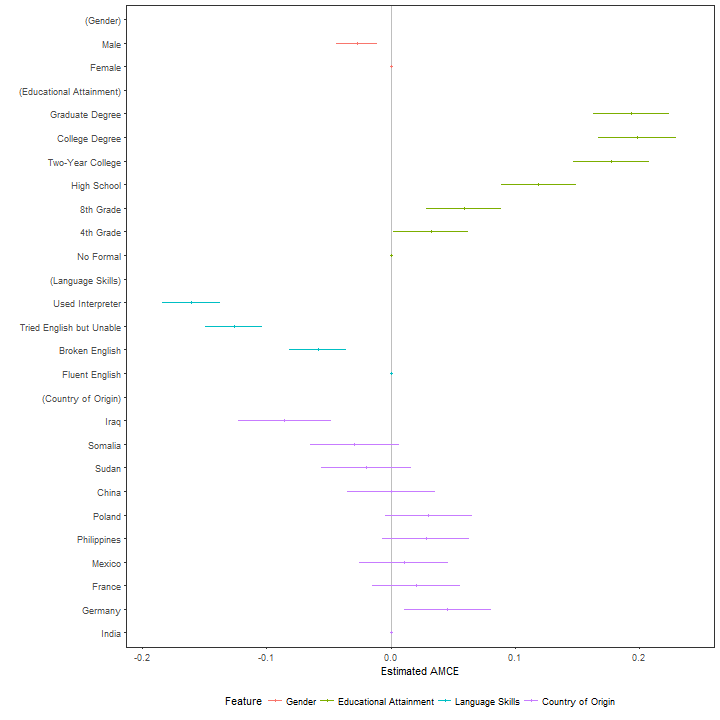
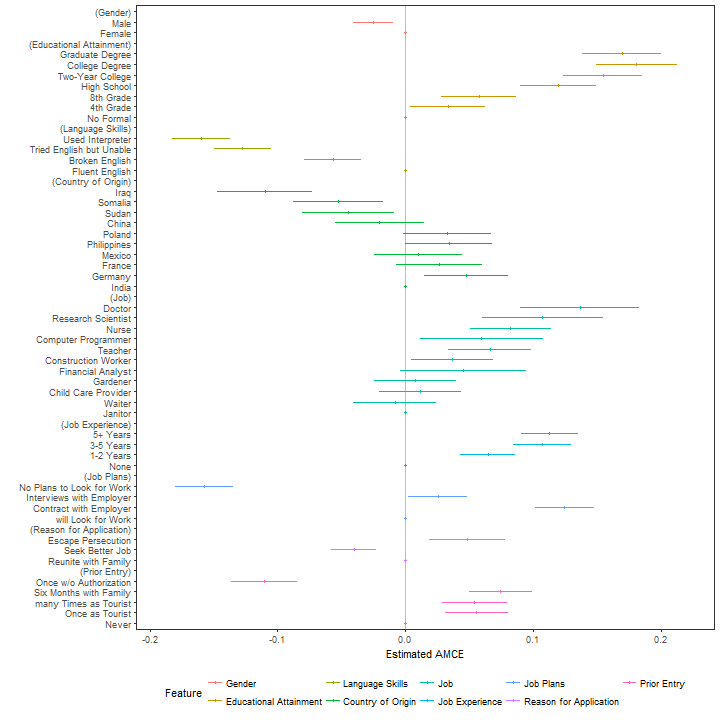
add level_order arg (closes #1)

diff --git a/README.html b/README.html
@@ -30,20 +30,19 @@ f1 &lt;-<span class="st"> </span>ChosenImmigrant <span class="op">~</span><span 
 <p>cregg functions uses <code>attributes(feature)$label</code> to provide pretty printing of feature labels, so that varible names can be arbitrary. These can be overwritten using the <code>feature_labels</code> argument to override these settings. Feature levels are always deduced from the <code>levels()</code> of righthand-side variables in the model specification. All variables should be factors with levels in desired display order. Similarly, the plotted order of features is given by the order of terms in the RHS formula unless overridden by the order of variable names given in <code>feature_order</code>.</p>
 <p>A more common analytic approach for conjoints is to estimate average marginal component effects (AMCEs) using some form of regression analysis. cregg uses <code>glm()</code> and <code>svyglm()</code> to perform estimation and <a href="https://cran.r-project.org/package=margins">margins</a> to generate average marginal effect estimates. Designs can be specified with any interactions between conjoint features but only AMCEs are returned. (No functionality is provided at the moment for explict estimation of feature interaction effects.) Just like for <code>amm()</code>, the output of <code>cj()</code> (or its alias, <code>amce()</code>) is a tidy data frame:</p>
 <div class="sourceCode"><pre class="sourceCode r"><code class="sourceCode r"><span class="co"># estimation</span>
-f2 &lt;-<span class="st"> </span>ChosenImmigrant <span class="op">~</span><span class="st"> </span>Gender <span class="op">+</span><span class="st"> </span>Education <span class="op">+</span><span class="st"> </span>LanguageSkills <span class="op">+</span><span class="st"> </span>CountryOfOrigin
-amces &lt;-<span class="st"> </span><span class="kw">cj</span>(hainmueller, f2, <span class="dt">id =</span> <span class="op">~</span>CaseID)
+amces &lt;-<span class="st"> </span><span class="kw">cj</span>(hainmueller, f1, <span class="dt">id =</span> <span class="op">~</span>CaseID)
 <span class="kw">str</span>(amces)</code></pre></div>
-<pre><code>Classes &#39;cj_amce&#39; and &#39;data.frame&#39;: 23 obs. of  9 variables:
+<pre><code>Classes &#39;cj_amce&#39; and &#39;data.frame&#39;: 50 obs. of  9 variables:
  $ outcome  : chr  &quot;ChosenImmigrant&quot; &quot;ChosenImmigrant&quot; &quot;ChosenImmigrant&quot; &quot;ChosenImmigrant&quot; ...
- $ feature  : Factor w/ 4 levels &quot;Gender&quot;,&quot;Educational Attainment&quot;,..: 1 1 2 2 2 2 2 2 2 3 ...
- $ level    : Factor w/ 23 levels &quot;Female&quot;,&quot;Male&quot;,..: 1 2 3 4 5 6 7 8 9 10 ...
- $ estimate : num  0 -0.0273 0 0.0323 0.0591 ...
- $ std.error: Named num  NA 0.00831 NA 0.01534 0.0154 ...
+ $ feature  : Factor w/ 9 levels &quot;Gender&quot;,&quot;Educational Attainment&quot;,..: 1 1 2 2 2 2 2 2 2 3 ...
+ $ level    : Factor w/ 50 levels &quot;Female&quot;,&quot;Male&quot;,..: 1 2 3 4 5 6 7 8 9 10 ...
+ $ estimate : num  0 -0.025 0 0.0334 0.0576 ...
+ $ std.error: Named num  NA 0.00798 NA 0.01497 0.01502 ...
   ..- attr(*, &quot;names&quot;)= chr  NA &quot;Var_dydx_GenderMale&quot; NA &quot;Var_dydx_Education4th Grade&quot; ...
- $ z        : num  NA -3.28 NA 2.11 3.84 ...
- $ p        : num  NA 0.001036 NA 0.035009 0.000125 ...
- $ lower    : num  NA -0.04355 NA 0.00227 0.02891 ...
- $ upper    : num  NA -0.011 NA 0.0624 0.0893 ...</code></pre>
+ $ z        : num  NA -3.13 NA 2.23 3.83 ...
+ $ p        : num  NA 0.001754 NA 0.025828 0.000126 ...
+ $ lower    : num  NA -0.04062 NA 0.00402 0.02816 ...
+ $ upper    : num  NA -0.00933 NA 0.06271 0.08704 ...</code></pre>
 <p>This makes it very easy to modify, combine, print, etc. the resulting output. It also makes it easy to visualize using ggplot2. A convenience visualization function is provided:</p>
 <div class="sourceCode"><pre class="sourceCode r"><code class="sourceCode r"><span class="co"># plotting of AMCEs</span>
 <span class="kw">plot</span>(amces)</code></pre></div>

diff --git a/README.md b/README.md
@@ -50,23 +50,22 @@ A more common analytic approach for conjoints is to estimate average marginal co
 
 ```r
 # estimation
-f2 <- ChosenImmigrant ~ Gender + Education + LanguageSkills + CountryOfOrigin
-amces <- cj(hainmueller, f2, id = ~CaseID)
+amces <- cj(hainmueller, f1, id = ~CaseID)
 str(amces)
 ```
 
 ```
-Classes 'cj_amce' and 'data.frame':	23 obs. of  9 variables:
+Classes 'cj_amce' and 'data.frame':	50 obs. of  9 variables:
  $ outcome  : chr  "ChosenImmigrant" "ChosenImmigrant" "ChosenImmigrant" "ChosenImmigrant" ...
- $ feature  : Factor w/ 4 levels "Gender","Educational Attainment",..: 1 1 2 2 2 2 2 2 2 3 ...
- $ level    : Factor w/ 23 levels "Female","Male",..: 1 2 3 4 5 6 7 8 9 10 ...
- $ estimate : num  0 -0.0273 0 0.0323 0.0591 ...
- $ std.error: Named num  NA 0.00831 NA 0.01534 0.0154 ...
+ $ feature  : Factor w/ 9 levels "Gender","Educational Attainment",..: 1 1 2 2 2 2 2 2 2 3 ...
+ $ level    : Factor w/ 50 levels "Female","Male",..: 1 2 3 4 5 6 7 8 9 10 ...
+ $ estimate : num  0 -0.025 0 0.0334 0.0576 ...
+ $ std.error: Named num  NA 0.00798 NA 0.01497 0.01502 ...
   ..- attr(*, "names")= chr  NA "Var_dydx_GenderMale" NA "Var_dydx_Education4th Grade" ...
- $ z        : num  NA -3.28 NA 2.11 3.84 ...
- $ p        : num  NA 0.001036 NA 0.035009 0.000125 ...
- $ lower    : num  NA -0.04355 NA 0.00227 0.02891 ...
- $ upper    : num  NA -0.011 NA 0.0624 0.0893 ...
+ $ z        : num  NA -3.13 NA 2.23 3.83 ...
+ $ p        : num  NA 0.001754 NA 0.025828 0.000126 ...
+ $ lower    : num  NA -0.04062 NA 0.00402 0.02816 ...
+ $ upper    : num  NA -0.00933 NA 0.06271 0.08704 ...
 ```
 
 This makes it very easy to modify, combine, print, etc. the resulting output. It also makes it easy to visualize using ggplot2. A convenience visualization function is provided:

diff --git a/NEWS.md b/NEWS.md
@@ -1,3 +1,8 @@
+# CHANGES TO cregg 0.1.3
+
+* Changed the `level` argument to `alpha` to avoid ambiguity with "levels" in the "feature level" sense used in the package (as opposed to the intended alpha or significance level).
+* Added a `level_order` argument to `freqs()`, `mm()`, and `amce()` that specifies whether feature levels are ordered ascending in the output or descending. This is mostly only useful for plotting to specify whether the levels within each feature should be ordered with lower factor levels at the top ("ascending") or at the bottom ("descending") of the plot.
+
 # CHANGES TO cregg 0.1.2
 
 * Changed name of `freq()` to `freqs()` and prefixed class names of return values from all functions with `cj_*`.
